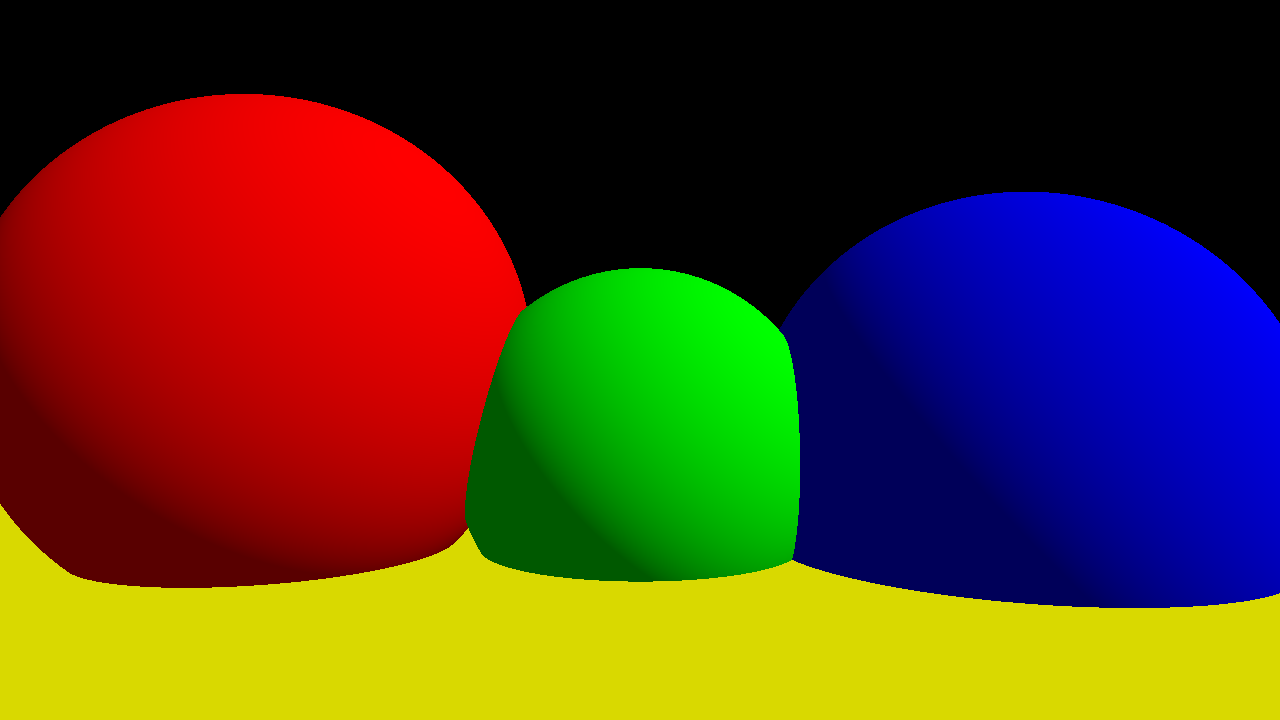
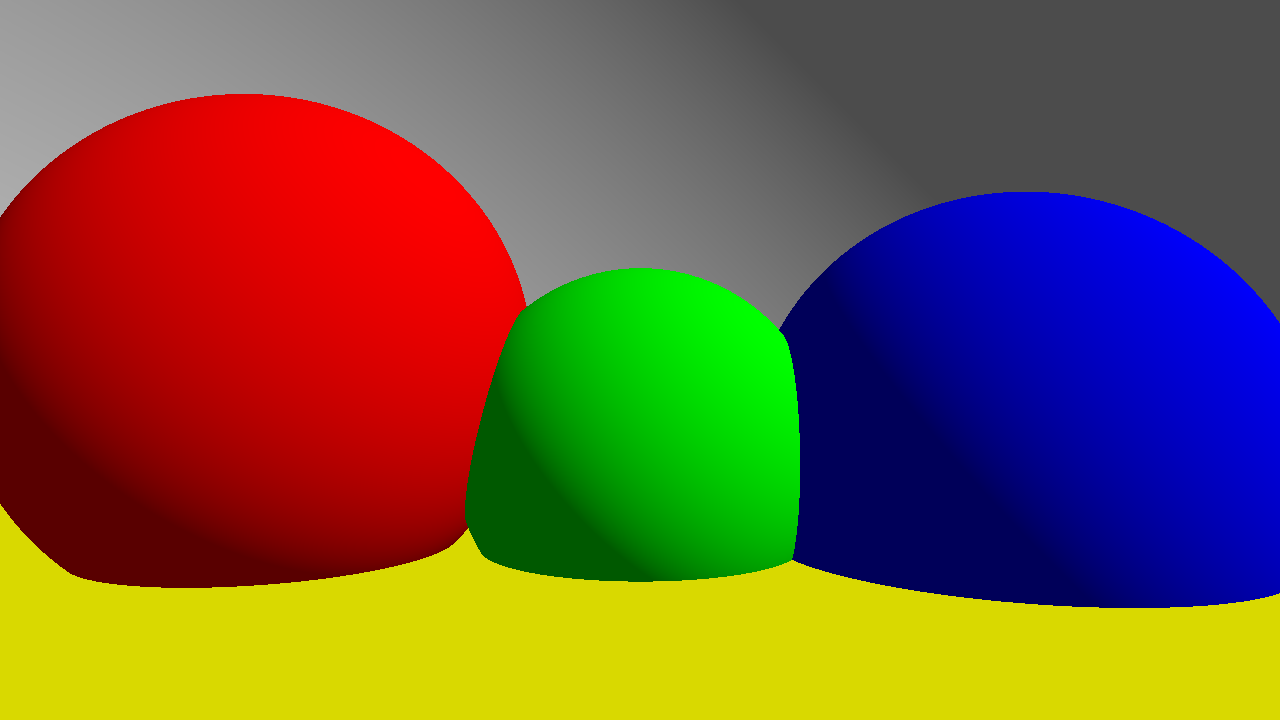
fixed BgShape, started a04

Changed region(s): [[0.0, 0.0, 1.0, 0.4583]]

diff --git a/src/app/DirectionalLight.java b/src/app/DirectionalLight.java
@@ -1,0 +1,23 @@
+package app;
+
+import cgg_tools.Color;
+import cgg_tools.Vec3;
+
+public record DirectionalLight(Color color, Vec3 dir) implements Light {
+
+  @Override
+  public Color color_at(Vec3 receiver_position) {
+    return color;
+  }
+
+  @Override
+  public double distance(Vec3 receiver_position) {
+    return Double.POSITIVE_INFINITY;
+  }
+
+  @Override
+  public Vec3 to_light(Vec3 receiver_position) {
+    return Vec3.normalize(Vec3.negate(dir));
+  }
+
+}

diff --git a/src/app/Light.java b/src/app/Light.java
@@ -1,0 +1,13 @@
+package app;
+
+import cgg_tools.Color;
+import cgg_tools.Vec3;
+
+public interface Light {
+
+  public Vec3 to_light(Vec3 receiver_position);
+
+  public double distance(Vec3 receiver_position);
+
+  public Color color_at(Vec3 receiver_position);
+}

diff --git a/src/app/Material.java b/src/app/Material.java
@@ -1,0 +1,11 @@
+package app;
+
+import cgg_tools.Color;
+import cgg_tools.Vec3;
+
+public interface Material {
+  public Color ambient(Hit hit, Color ambient_light);
+
+  public Color shade(Hit hit, Vec3 to_viewer, Vec3 to_light, Color incoming_light);
+
+}

diff --git a/src/app/app.java b/src/app/app.java
@@ -16,11 +16,11 @@ public class app {
     int height = 720;
     Camera camera = new Camera(70, width, height, new Vec3(0, 0, 0));
     var scene = new GroupShape(
-        new BackgroundShape(Color.multiply(0.7, Color.white)),
-        new DiscShape(new Vec3(0.0, -0.5, 0), 100, Color.yellow),
-        new SphereShape(new Vec3(-1, -0.0, -2.5), 0.7, Color.red),
-        new SphereShape(new Vec3(0, -0.25, -2.5), 0.5, Color.green),
-        new SphereShape(new Vec3(1, -0.25, -2.5), 0.7, Color.blue));
+        new BackgroundShape(Color.multiply(0.5, Color.cyan)),
+        new DiscShape(new Vec3(0.0, -0.5, -10), 150, Color.magenta),
+        new SphereShape(new Vec3(-3, 0.25, -6.5), 0.7, Color.red),
+        new SphereShape(new Vec3(0, 0.0, -4.5), 0.3, Color.yellow),
+        new SphereShape(new Vec3(3, -0.25, -6.5), 0.7, Color.blue));
 
     // This object defines the contents of the image.
     // It must implement the cgg_tools.Sampler interface.

diff --git a/src/app/BackgroundShape.java b/src/app/BackgroundShape.java
@@ -9,11 +9,11 @@ public record BackgroundShape(Color color) implements Shape {
   @Override
   public Hit intersect(Ray r) {
     var t = Double.POSITIVE_INFINITY;
-    if (r.t_max() < t) {
+    if (t > r.t_max()) {
       return null;
     }
     var p = r.point_at(t);
-    return new Hit(t, p, Vec3.normalize(Vec3.negate(p)), color);
+    return new Hit(t, p, Vec3.normalize(Vec3.negate(r.dir())), color);
   }
 
 }